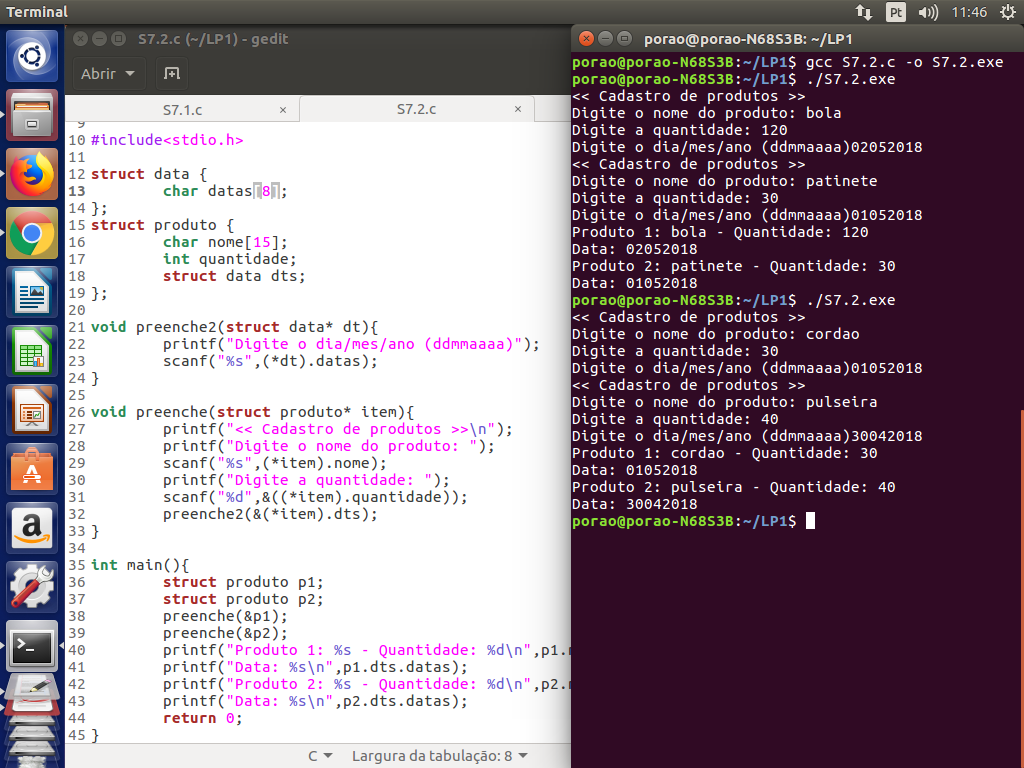
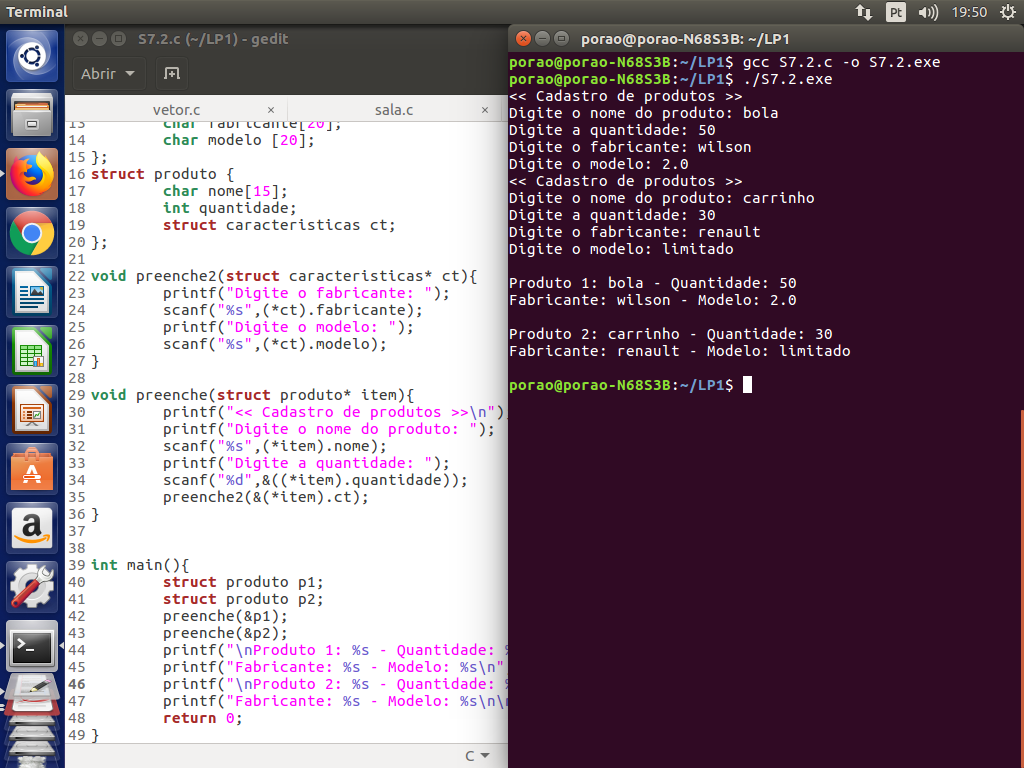
Add files via upload

diff --git a/Struct/S7.2.c b/Struct/S7.2.c
@@ -9,18 +9,21 @@ anterior. */
 
 #include<stdio.h>
 
-struct data {
-	char datas[8];
+struct caracteristicas {
+	char fabricante[20];
+	char modelo [20];
 };
 struct produto {
 	char nome[15];
 	int quantidade;
-	struct data dts;
+	struct caracteristicas ct;
 };
 
-void preenche2(struct data* dt){
-	printf("Digite o dia/mes/ano (ddmmaaaa)");
-	scanf("%s",(*dt).datas);
+void preenche2(struct caracteristicas* ct){
+	printf("Digite o fabricante: ");
+	scanf("%s",(*ct).fabricante);
+	printf("Digite o modelo: ");
+	scanf("%s",(*ct).modelo);
 }
 
 void preenche(struct produto* item){
@@ -29,17 +32,18 @@ void preenche(struct produto* item){
 	scanf("%s",(*item).nome);
 	printf("Digite a quantidade: ");
 	scanf("%d",&((*item).quantidade));
-	preenche2(&(*item).dts);
+	preenche2(&(*item).ct);
 }
+
 
 int main(){
 	struct produto p1;
 	struct produto p2;
 	preenche(&p1);
 	preenche(&p2);
-	printf("Produto 1: %s - Quantidade: %d\n",p1.nome, p1.quantidade);
-	printf("Data: %s\n",p1.dts.datas);
-	printf("Produto 2: %s - Quantidade: %d\n",p2.nome, p2.quantidade);
-	printf("Data: %s\n",p2.dts.datas);	
+	printf("\nProduto 1: %s - Quantidade: %d\n",p1.nome, p1.quantidade);
+	printf("Fabricante: %s - Modelo: %s\n",p1.ct.fabricante, p1.ct.modelo);
+	printf("\nProduto 2: %s - Quantidade: %d\n",p2.nome, p2.quantidade);
+	printf("Fabricante: %s - Modelo: %s\n\n",p2.ct.fabricante, p2.ct.modelo);	
 	return 0;
 }
